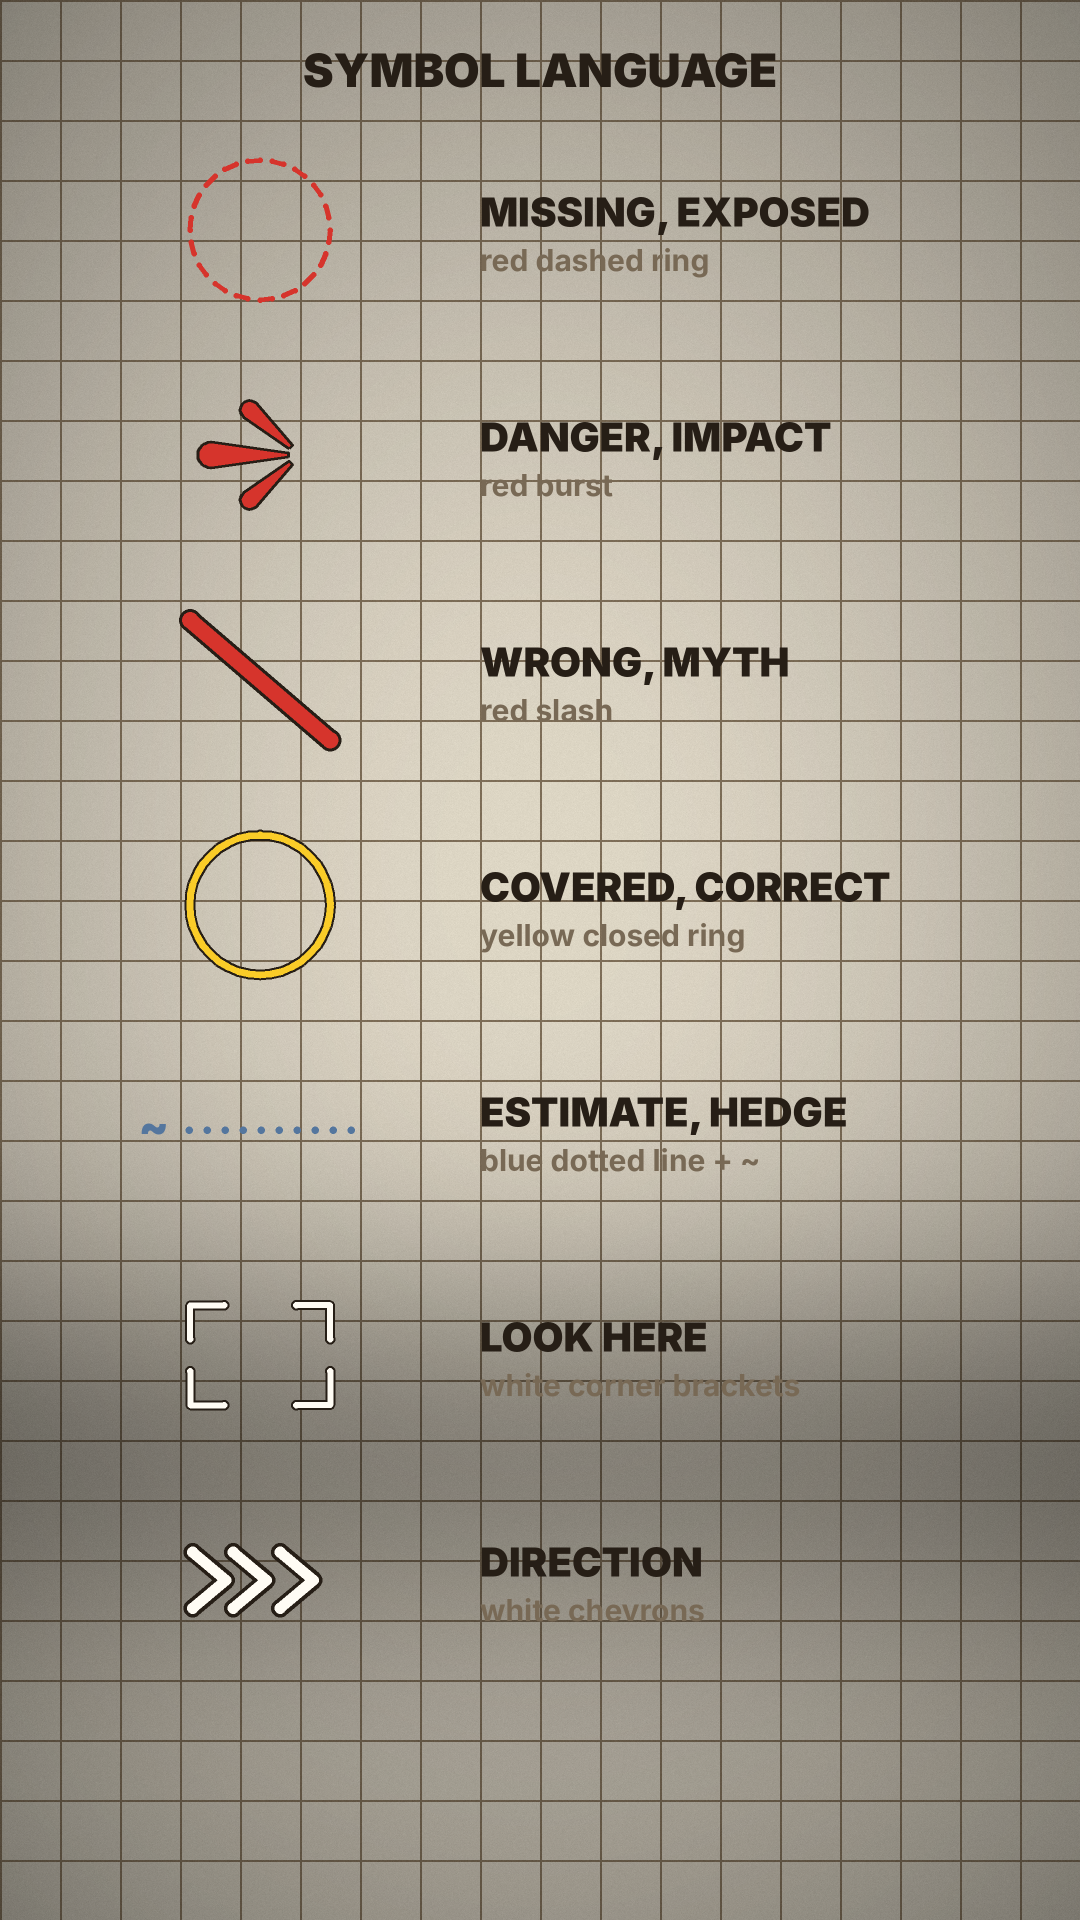
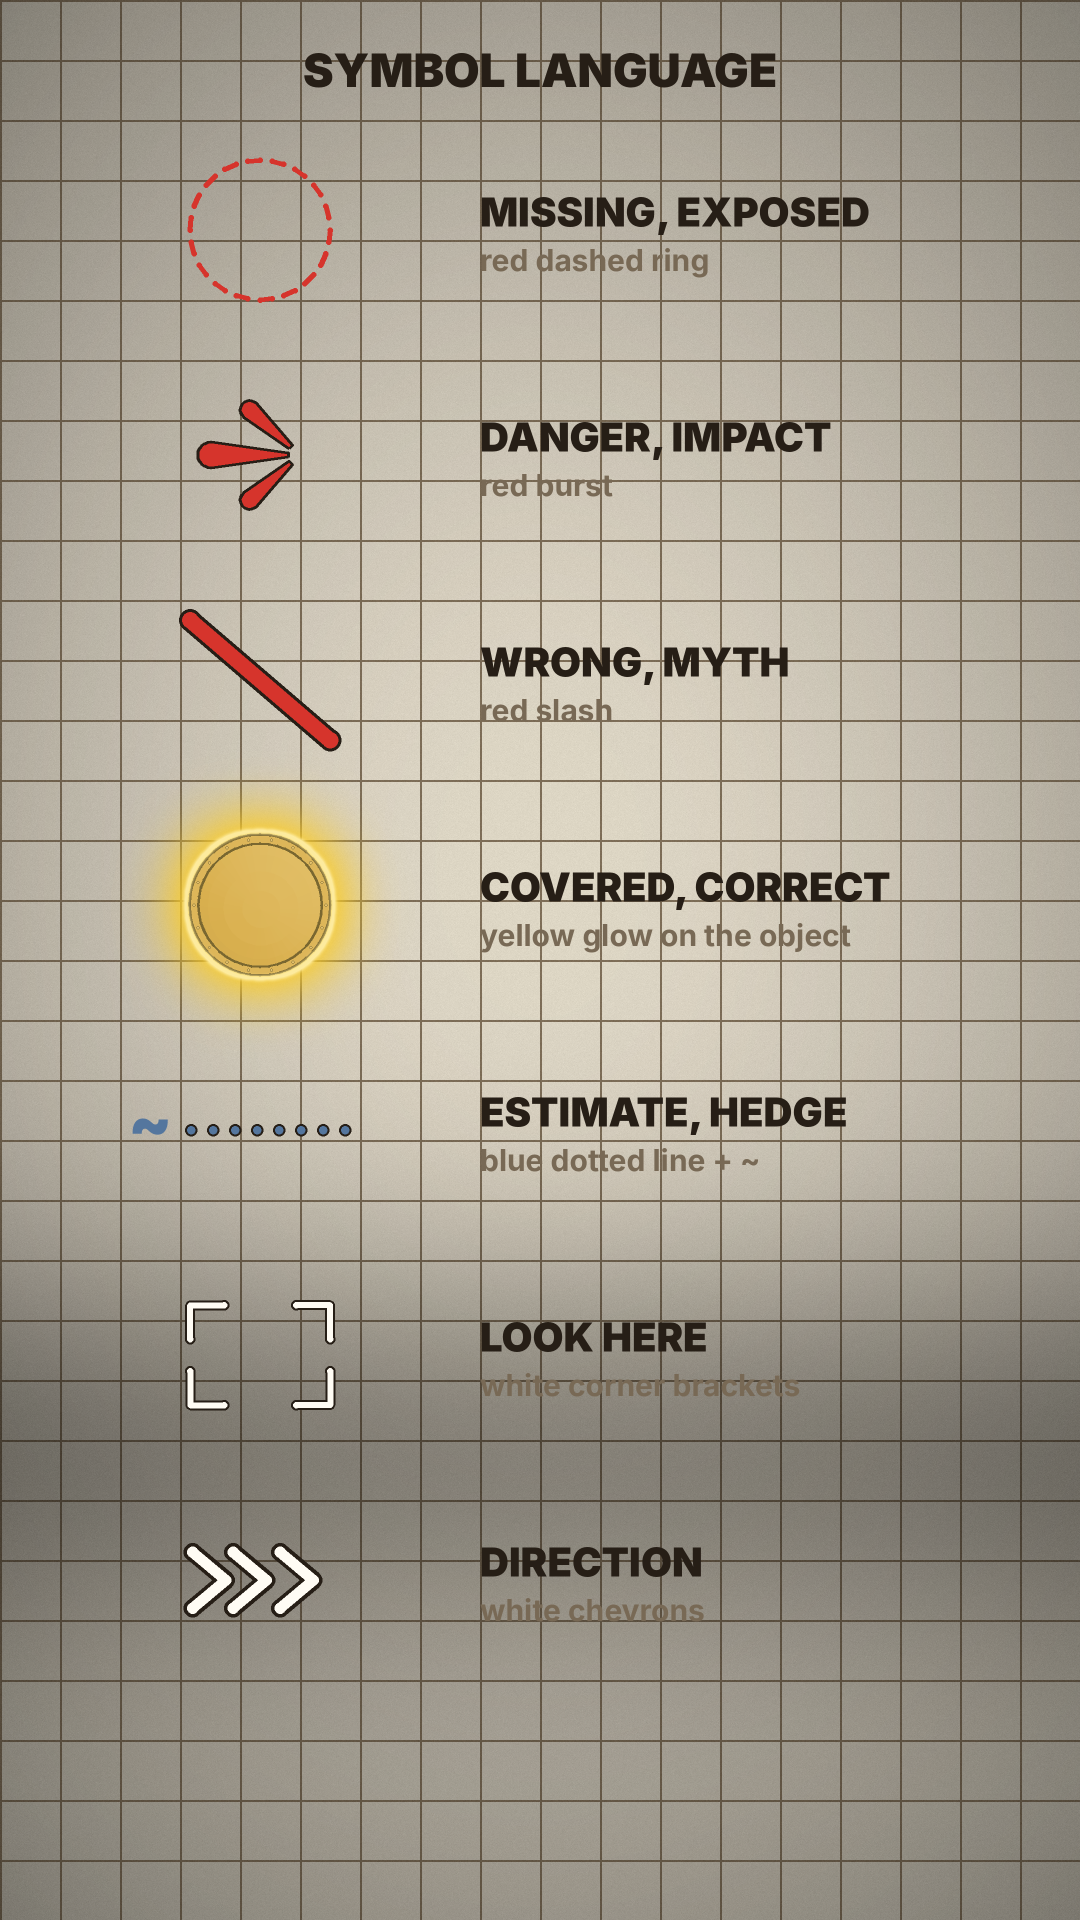
Correct/covered shown as a smooth yellow outline glow on the object; LIKELY stamp removed; eyelids use the figure's skin tone
Claude-Session: https://claude.ai/code/session_018zDYqemq3sZGsLrorSxicX

diff --git a/episodes/E024_aspis/render_e24.py b/episodes/E024_aspis/render_e24.py
@@ -70,8 +70,11 @@ FLAT = W25.Cam3(0, 0, -3600, 0, F=3600, horizon=0, cx=0)          # parchment sc
 def flat_hooks(x, y, k, store=None, cam=FLAT):
     wpt = lambda lx, ly, dz: (x + lx * k, y + ly * k, dz * k)
     def shield_fn(pn_, cx, cy, r, f):
-        if store is not None: store['shield'] = (x + cx * k, y + cy * k, r * k)
-        M.draw_mesh(pn_, cam, M.get('aspis'), wpt(cx, cy, -14), M.rot(-f * 0.22, 0, 0 if f == 1 else math.pi), scale=k * r / 64)
+        args = (wpt(cx, cy, -14), M.rot(-f * 0.22, 0, 0 if f == 1 else math.pi), k * r / 64)
+        if store is not None:
+            store['shield'] = (x + cx * k, y + cy * k, r * k)
+            store['shield_draw'] = lambda pen, a=args: M.draw_mesh(pen, cam, M.get('aspis'), a[0], a[1], scale=a[2])
+        M.draw_mesh(pn_, cam, M.get('aspis'), args[0], args[1], scale=args[2])
     def spear_fn(pn_, gx, gy, a, back):
         M.draw_mesh(pn_, cam, M.dory_for(back), wpt(gx, gy, -8), M.rot(0, 0, a), scale=k)
     return dict(shield_fn=shield_fn, spear_fn=spear_fn)
@@ -80,10 +83,12 @@ def world_hooks(cam, X, Z, store=None):
     co, si = math.cos(cam.yaw), math.sin(cam.yaw)
     wpt = lambda lx, ly, dz: (X + lx * co, ly, Z + lx * si + dz)
     def shield_fn(pn_, cx, cy, r, f):
+        args = (wpt(cx, cy, -14), M.rot(-f * 0.22, 0, 0 if f == 1 else math.pi), r / 64)
         if store is not None:
-            p = cam.proj(*wpt(cx, cy, -14))
+            p = cam.proj(*args[0])
             if p: store['shield'] = (p[0], p[1], r * p[2])
-        M.draw_mesh(pn_, cam, M.get('aspis'), wpt(cx, cy, -14), M.rot(-f * 0.22, 0, 0 if f == 1 else math.pi), scale=r / 64)
+            store['shield_draw'] = lambda pen, a=args: M.draw_mesh(pen, cam, M.get('aspis'), a[0], a[1], scale=a[2])
+        M.draw_mesh(pn_, cam, M.get('aspis'), args[0], args[1], scale=args[2])
     def spear_fn(pn_, gx, gy, a, back):
         M.draw_mesh(pn_, cam, M.dory_for(back), wpt(gx, gy, -8), M.rot(0, 0, a))
     return dict(shield_fn=shield_fn, spear_fn=spear_fn)
@@ -207,14 +212,10 @@ def s15(t):
         qbox('subject', N15a.store['fig'][0], N15a.store['fig'][1], N15b.store['fig'][2], N15b.store['fig'][3])
     else: qbox('subject', *K15.store['fig'])
     if 'shield' in K15.store: cx, cy, r = K15.store['shield']; qbox('key', cx - 2 * r, cy - r, cx + 2 * r, cy + r)
-    if lit > 0:     # each man's right side, covered by his neighbour's shield: yellow rings close
-        lay = new_layer(); pn = Pen(lay, cam=False)
-        for j, p in enumerate((K15, N15b)):
-            if 'bare' in p.store:
-                b = p.store['bare']; cx, cy = (b[0] + b[2]) / 2 - (b[2] - b[0]) * 0.1, (b[1] + b[3]) / 2
-                r = (b[3] - b[1]) * 0.55
-                EM.covered(pn, cx, cy, r, eo3(clamp((t - w(20, 2) - 0.12 * j) / 0.35)), EM.pop_env(t, w(20, 2) - 0.05 + 0.12 * j, hold=1.2))
-        flatten(im, lay)
+    for j, p in enumerate((N15a, K15)):     # the shields that cover their neighbours glow
+        if p.store.get('shield_draw'):
+            ov = EM.glow(p.store['shield_draw'], EM.glow_env(t, w(20, 2) - 0.15 + 0.12 * j, hold=1.2))
+            if ov: im.alpha_composite(ov)
     return im
 
 # shot 12: low angle, the line breaks
@@ -398,12 +399,13 @@ def s5(t):
         qbox('key', *union(*[(st['shield'][0] - st['shield'][2], st['shield'][1] - st['shield'][2], st['shield'][0] + st['shield'][2],
                                st['shield'][1] + st['shield'][2]) for st in stores[:2]]))
     lit = [clamp((t - w(8, 4) - 0.15 * j) / 0.25) for j in range(2)]
-    for j in range(2):          # the next man's right side, now covered by this man's shield
-        fx_, fy_ = xs[j + 1] - 38 * k, y - 112 * k
-        EM.covered(pn, fx_, fy_, 58 * k, eo3(clamp((t - w(8, 4) - 0.15 * j) / 0.35)), EM.pop_env(t, w(8, 4) - 0.05 + 0.15 * j, hold=1.0))
-    if t >= w(8, 4):
-        PR.stamp(pn, 860, 170, 'LIKELY', clamp((t - w(8, 4)) / 0.3), sz=70, col=EM.BLUE)
-    flatten(im, lay); return im
+    GL = [(stores[j].get('shield_draw'), EM.glow_env(t, w(8, 4) - 0.15 + 0.15 * j, hold=1.0)) for j in range(2)]
+    flatten(im, lay)
+    for fn, sc_ in GL:          # each shield that covers the next man glows (correct, covered)
+        if fn:
+            ov = EM.glow(fn, sc_)
+            if ov: im.alpha_composite(ov)
+    return im
 
 def s6(t):
     im = parch(); lay = new_layer(); pn = Pen(lay, cam=False)
@@ -416,10 +418,11 @@ def s6(t):
     HOP(pn, xa, y, k, -1, out='hop_a', expr='determined', shield_r=64, **flat_hooks(xa, y, k, st))
     qbox('subject', xa - 110 * k, y - 280 * k, xk + 110 * k, 1260)
     if 'shield' in st: qbox('key', st['shield'][0] - st['shield'][2], st['shield'][1] - st['shield'][2] - 80, xk, 1250)
-    if t >= w(9, 4) - 0.05:     # the Keeper's right flank, behind the neighbour's shield: covered
-        fx_, fy_ = xk - 38 * k, y - 112 * k
-        EM.covered(pn, fx_, fy_, 58 * k, eo3(clamp((t - w(9, 4)) / 0.4)), EM.pop_env(t, w(9, 4) - 0.05, hold=1.1))
-    flatten(im, lay); return im
+    flatten(im, lay)
+    if st.get('shield_draw'):   # the neighbour's shield, which covers the Keeper's right side, glows
+        ov = EM.glow(st['shield_draw'], EM.glow_env(t, w(9, 4) - 0.15, hold=1.1))
+        if ov: im.alpha_composite(ov)
+    return im
 
 STUDY = None
 def study_bg():
@@ -525,10 +528,13 @@ def s10(t):
     PR.phalanx_token(pn, xL, 860, z, open_side=min(eoback(clamp((t - bs(13) - 0.1) / 0.18)), 1.0 - u), spear=False)
     PR.phalanx_token(pn, xR, 860, z, open_side=0.0, spear=False)       # its shield is drawn over the left man's right side
     tc = w(13, 1) + 0.8
-    EM.covered(pn, xL + 44 * z, 860 - 26 * z, 30 * z, eo3(clamp((t - tc) / 0.35)), EM.pop_env(t, tc - 0.05, hold=0.9))
+    GL10 = EM.glow_env(t, tc - 0.15, hold=0.9)
     if t >= w(13, 7):
         PR.callout(pn, xR - 60 * z, 860 - 30 * z, 300, 380, "NEIGHBOR'S SHIELD", p=clamp((t - w(13, 7)) / 0.35), sz=44)
-    flatten(im, lay); return im
+    flatten(im, lay)
+    ov = EM.glow(lambda pen: _tok(pen, xR, 860, z, only_shield=True), GL10)
+    if ov: im.alpha_composite(ov)
+    return im
 
 def s11(t):
     im = tokens_bg(); lay = new_layer(); pn = Pen(lay, cam=False)
@@ -554,12 +560,17 @@ def s11(t):
 def s14(t):
     im = parch(); lay = new_layer(); pn = Pen(lay, cam=False)
     k = 8.4; x = 540; y = 820 + 220 * k
-    HOP(pn, x, y, k, -1, out='spartan1', expr='neutral', shield=False, look=(0.2, 0))
+    HOP(pn, x, y, k, -1, out='spartan1', expr='neutral', shield=False, look=(0.2, 0), blink=0.0)
     qbox('subject', x - 60 * k, y - 300 * k, x + 60 * k, y - 170 * k); qbox('key', x - 60 * k, y - 300 * k, x + 60 * k, y - 170 * k)
     p = clamp((t - w(19, 3)) / 0.5)
     if p > 0:
-        EM.covered(pn, x, y - 232 * k, 60 * k, eo3(p), EM.pop_env(t, w(19, 3) - 0.05, hold=1.0))
-    flatten(im, lay); return im
+        pass
+    flatten(im, lay)
+    O14 = C.OUT2['spartan1']
+    ov = EM.glow(lambda pen: C.draw_part(pen, 'pilos', (x, y - 218.5 * k), None, -1, O14, ang=0.0, scale=k),
+                 EM.glow_env(t, w(19, 3) - 0.15, hold=1.0), line=11, halo=40)
+    if ov: im.alpha_composite(ov)
+    return im
 
 # gate 1: shot spec. cue = the word that must visibly change something; MUST SEE and PROVES are the pass rule
 SPEC = {

diff --git a/emphasis.py b/emphasis.py
@@ -117,3 +117,39 @@ def direction(pn, x, y, ang, s, size=1.0, t=0.0):
         pts = [(cx_ - ux * 14 * k + nx * 20 * k, cy_ - uy * 14 * k + ny * 20 * k), (cx_ + ux * 10 * k, cy_ + uy * 10 * k),
                (cx_ - ux * 14 * k - nx * 20 * k, cy_ - uy * 14 * k - ny * 20 * k)]
         pn.line(pts, INK, 13 * k); pn.line(pts, NEUTRAL, 8 * k)
+
+def glow_env(t, t0, hold=1.0, fin=0.28, fout=0.35):
+    """Smooth envelope for glows: eased fade up, a gentle breathing hold, eased fade out (no overshoot)."""
+    a = t - t0
+    if a < 0 or a > fin + hold + fout: return 0.0
+    if a < fin: return eio(a / fin)
+    if a < fin + hold: return 0.9 + 0.1 * math.cos(2 * math.pi * (a - fin) / 0.9)
+    return 1.0 - eio((a - fin - hold) / fout)
+
+def glow(draw_fn, s, color=YELLOW, line=9, halo=30, inner=0.28):
+    """YELLOW glow around an object's real outline: covered, correct, protected (replaces the yellow ring).
+    Smooth bloom: an anti aliased bright rim, a tight glow and a wide soft glow, plus a light inner wash.
+    draw_fn(pen) draws just that object on a fresh layer (same coordinates as the scene); returns an RGBA overlay
+    (1080x1920) to alpha_composite over the finished frame. s is the strength (use glow_env)."""
+    from PIL import Image, ImageFilter, ImageChops
+    if s <= 0.01: return None
+    s = min(1.0, s)
+    lay = new_layer(); pn = Pen(lay, cam=False); draw_fn(pn)
+    a = lay.split()[3].resize((W, H), Image.BOX)
+    k = line | 1
+    outer = a.filter(ImageFilter.MaxFilter(k))
+    rim = ImageChops.subtract(outer, a).filter(ImageFilter.GaussianBlur(1.6))
+    tight = outer.filter(ImageFilter.GaussianBlur(halo * 0.35))
+    wide = outer.filter(ImageFilter.MaxFilter(9)).filter(ImageFilter.GaussianBlur(halo))
+    bloom = ImageChops.lighter(tight.point(lambda v: min(255, int(v * 1.4))), wide.point(lambda v: min(255, int(v * 1.6))))
+    bloom = ImageChops.subtract(bloom, a.point(lambda v: int(v * 0.85)))
+    out = Image.new('RGBA', (W, H), color + (0,))
+    out.putalpha(bloom.point(lambda v: int(v * s)))
+    hot = Image.new('RGBA', (W, H), lerpc(color, (255, 255, 236), 0.6) + (0,))
+    hot.putalpha(rim.point(lambda v: int(min(255, v * 1.3) * s)))
+    out.alpha_composite(hot)
+    if inner > 0:            # the object itself lights up a little
+        lit = Image.new('RGBA', (W, H), lerpc(color, (255, 255, 240), 0.35) + (0,))
+        lit.putalpha(a.point(lambda v: int(v * inner * s)))
+        out.alpha_composite(lit)
+    return out

diff --git a/rig.py b/rig.py
@@ -116,6 +116,7 @@ EXPR = {
 SMALL_FACE_PX = 58      # head diameter on screen below which subtle expressions fall back to their bold version
 EXTRAS_PX = 80          # extras (sweat, tears, blush, lines) only when the head is at least this big
 FACE_DETAIL_PX = 110    # fine face detail (lash lines, iris rings) only when the head is at least this big
+FACE_SKIN = None        # skin tone for eyelids and mouth patches (set by the caller for non default skin)
 
 # ---------------- face: facial hair ----------------
 # Styles drawn in the channel's own shapes. The mouth always keeps a patch of bare skin (locked rule: the mouth is
@@ -212,7 +213,7 @@ def face(pn, hx, hy, f, expr='neutral', look=(0.6, 0), blink=0.0, glasses=False,
             lidv = max(lid, blink)
             if lidv > 0.02:
                 yl = ey - ry + 2 * ry * lidv
-                pn.poly([(ex - rx - 1, ey - ry - 2), (ex + rx + 1, ey - ry - 2), (ex + rx + 1, yl), (ex - rx - 1, yl)], fill=SKIN)
+                pn.poly([(ex - rx - 1, ey - ry - 2), (ex + rx + 1, ey - ry - 2), (ex + rx + 1, yl), (ex - rx - 1, yl)], fill=FACE_SKIN or SKIN)
                 pn.line([(ex - rx, yl), (ex + rx, yl)], INK, 2.4)
         elif eyes == 'arc':        # closed happy eyes
             pn.arc(ex, ey + 4, 7, 200, 340, INK, 3.2)
@@ -248,7 +249,7 @@ def face(pn, hx, hy, f, expr='neutral', look=(0.6, 0), blink=0.0, glasses=False,
         patch = facial_hair(pn, f, style, beard, r, detail, big_mouth)
         pn.pop()
         if patch:      # bare skin around the mouth so the expression still reads
-            pn.ell(mx, my + (2 if big_mouth else 0), patch[0], patch[1], fill=SKIN)
+            pn.ell(mx, my + (2 if big_mouth else 0), patch[0], patch[1], fill=FACE_SKIN or SKIN)
     if mouth == 'flat': pn.line([(mx - 7, my), (mx + 7, my)], INK, 3.2)
     elif mouth == 'smile': pn.arc(mx, my - 6, 9, 20, 160, INK, 3.2)
     elif mouth == 'frown': pn.arc(mx, my + 7, 8, 200, 340, INK, 3.2)

diff --git a/assets/emphasis/make_language_sheet.py b/assets/emphasis/make_language_sheet.py
@@ -8,12 +8,20 @@ pn.text(540, 70, 'SYMBOL LANGUAGE', 46, INK, 'Black')
 rows = [('MISSING, EXPOSED', 'red dashed ring', lambda x, y: EM.missing(pn, x, y, 70, 1.0)),
         ('DANGER, IMPACT', 'red burst', lambda x, y: EM.danger(pn, x + 40, y, 1.2, 180, 1.0)),
         ('WRONG, MYTH', 'red slash', lambda x, y: EM.wrong(pn, (x - 70, y - 60), (x + 70, y + 60), 1.0)),
-        ('COVERED, CORRECT', 'yellow closed ring', lambda x, y: EM.covered(pn, x, y, 70, 1.0)),
+        ('COVERED, CORRECT', 'yellow glow on the object', None),
         ('ESTIMATE, HEDGE', 'blue dotted line + ~', lambda x, y: EM.hedge(pn, x - 80, x + 100, y, 1.0)),
         ('LOOK HERE', 'white corner brackets', lambda x, y: EM.look(pn, x - 70, y - 50, x + 70, y + 50, 1.0)),
         ('DIRECTION', 'white chevrons', lambda x, y: EM.direction(pn, x, y, 0, 1.0, 1.4))]
 for i, (lab, sub, fn) in enumerate(rows):
     y = 230 + i * 225
-    fn(260, y)
+    if fn: fn(260, y)
+    else:
+        import mesh3d as M, world25 as W25
+        FL = W25.Cam3(0, 0, -3600, 0, F=3600, horizon=0, cx=0)
+        M.draw_mesh(pn, FL, M.get('aspis'), (260, y, 0), M.rot(0, 0, 0), scale=1.1); GLOW = (260, y)
     pn.text(480, y - 18, lab, 40, INK, 'Black', anchor='lm'); pn.text(480, y + 30, sub, 30, MUTED, 'Bold', anchor='lm')
-flatten(im, lay); im.convert('RGB').save(os.path.join(ROOT, 'assets', 'emphasis', 'symbol_language.png')); print('ok')
+flatten(im, lay)
+import mesh3d as M, world25 as W25
+FL = W25.Cam3(0, 0, -3600, 0, F=3600, horizon=0, cx=0)
+ov = EM.glow(lambda p2: M.draw_mesh(p2, FL, M.get('aspis'), (GLOW[0], GLOW[1], 0), M.rot(0, 0, 0), scale=1.1), 1.0)
+im.alpha_composite(ov); im.convert('RGB').save(os.path.join(ROOT, 'assets', 'emphasis', 'symbol_language.png')); print('ok')

diff --git a/props.py b/props.py
@@ -435,7 +435,8 @@ def aspis(pn, cx, cy, r=56, f=1, col=BRZ, device=None):
 def _ell_pts_(cx, cy, rx, ry, a0, a1, n=18):
     return [(cx + rx * math.cos(math.radians(a0 + (a1 - a0) * i / n)), cy + ry * math.sin(math.radians(a0 + (a1 - a0) * i / n))) for i in range(n + 1)]
 
-def phalanx_token(pn, x, y, s=1.0, open_side=0.0, shield=True, spear=True, col_helm=(196, 150, 72), col_body=(160, 40, 36), up=1):
+def phalanx_token(pn, x, y, s=1.0, open_side=0.0, shield=True, spear=True, col_helm=(196, 150, 72), col_body=(160, 40, 36), up=1,
+                  only_shield=False):
     """Hoplite seen from straight above (BM-P068). up=1 faces up the screen (his left is screen left), up=-1 faces down
     (his left is screen right). The aspis is upright in front of the body, so from above it is a shallow curved bar set
     to his left, reaching across the left neighbour; open_side 0..1 lights his uncovered right side in RUST.
@@ -443,6 +444,9 @@ def phalanx_token(pn, x, y, s=1.0, open_side=0.0, shield=True, spear=True, col_h
     u = up
     P_ = lambda px, py: (px * u, py * u)
     pn.push(x, y, s)
+    if only_shield:          # just the shield bar (for an outline glow)
+        pts = [P_(-38 + 65 * math.cos(math.radians(a)), -30 - 16 * math.sin(math.radians(a))) for a in range(0, 181, 10)]
+        pn.poly(pts + [P_(-103, -24), P_(27, -24)], fill=(196, 150, 72)); pn.pop(); return
     if spear:
         pn.line([P_(22, 10), P_(22, -150)], (150, 112, 70), 4.5)
         pn.poly([P_(22, -168), P_(17, -150), P_(27, -150)], fill=(112, 116, 124), outline=INK, width=2)

diff --git a/rig_cutout.py b/rig_cutout.py
@@ -379,6 +379,7 @@ def hoplite(pn, x, y, k, f=1, p='idle', out='hop_keeper', expr='determined', loo
         pn.poly([(hx - r * .95, hy - 6), (hx - r * .7, hy - r * .78), (hx, hy - r - 3), (hx + r * .7, hy - r * .78), (hx + r * .95, hy - 6),
                  (hx + r * .55, hy - r * .55), (hx - r * .55, hy - r * .55)], fill=O['hair'])
     pn.push(hx, hy, r / 36)
+    R.FACE_SKIN = O.get('skin')
     R.face(pn, 0, 0, f, expr, look, blink, O.get('glasses', False), 36, O.get('beard'), O.get('beard_style'))
     pn.pop()
     if O.get('helmet'):
